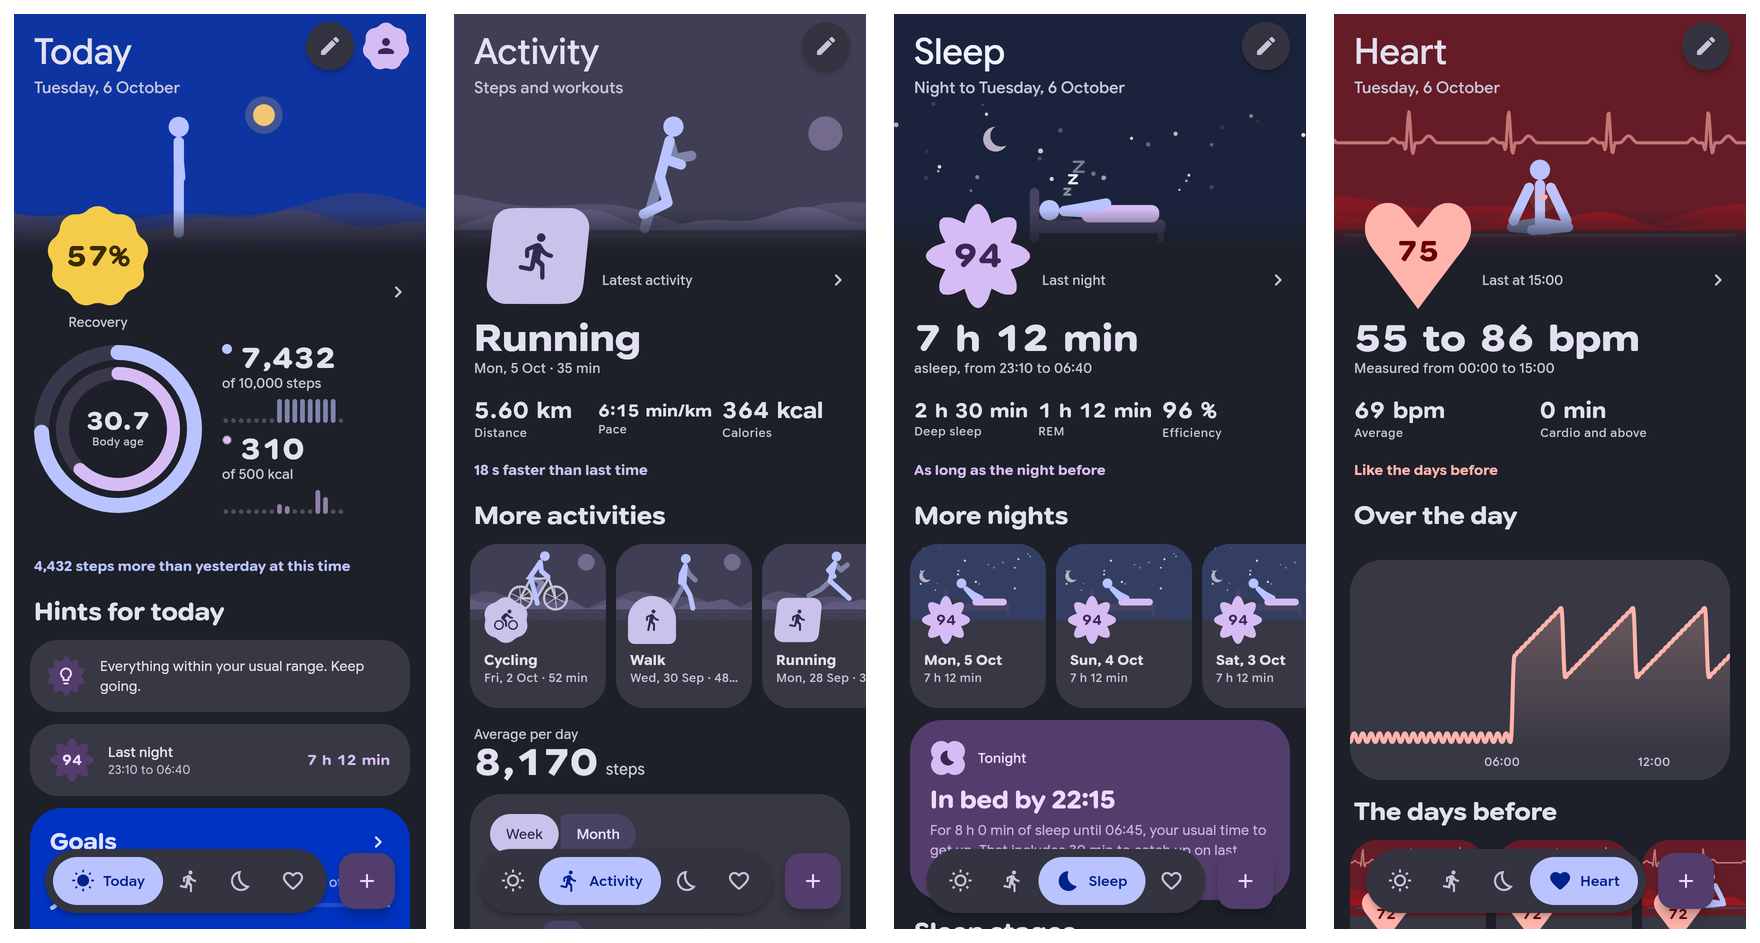
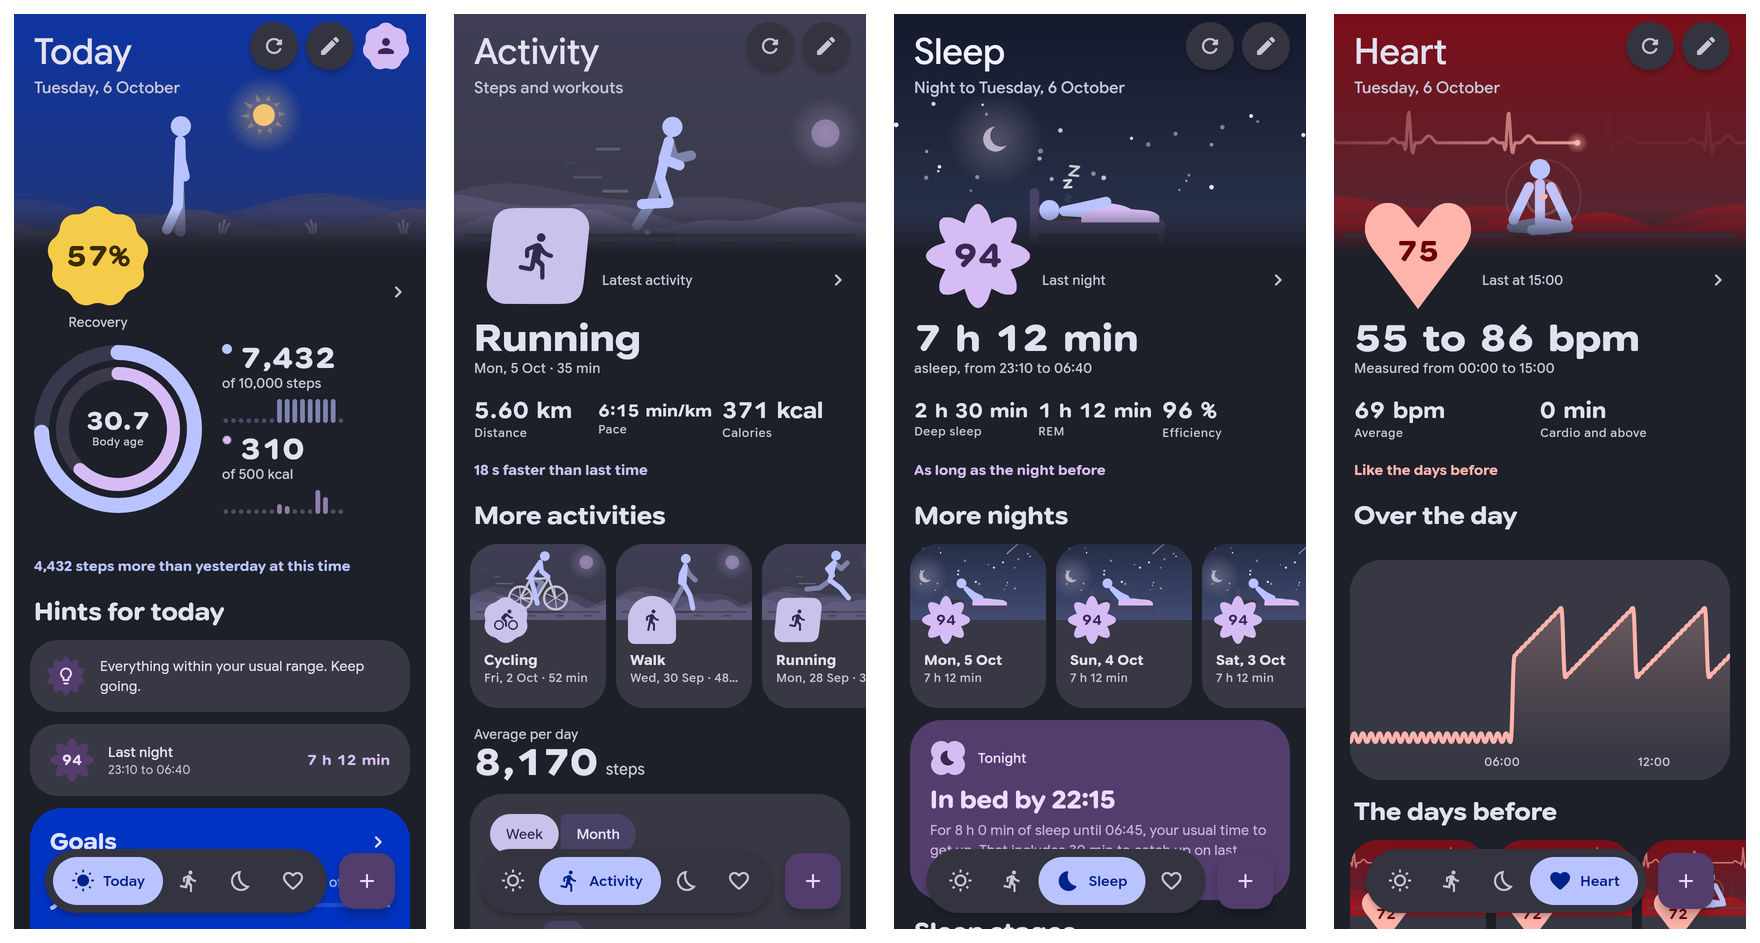
docs: show the new scenes and the reload button in the README

diff --git a/README.md b/README.md
@@ -29,7 +29,7 @@ The screenshots on this page show sample data.
 
 ## Features
 
-- **Four Pages, One Scene Each:** **Today**, **Activity**, **Sleep** and **Heart** each open with an animated scene drawn by the app and the page's main number on a shape. The scene comes in when the page opens, and a button at the top reloads the data.
+- **Four Pages, One Scene Each:** **Today**, **Activity**, **Sleep** and **Heart** each open with an animated scene drawn by the app and the page's main number on a shape. The scene comes in when the page opens: the land rises, the sun or the moon climbs to its place and the figure appears.
 - **Simple or Advanced:** The large cards show their few most important numbers, or all of them. A new installation starts simple.
 - **Good Morning:** A few cards when you get up: last night, your recovery, the weather and your goals.
 - **Weekly Report:** On Sunday evening, the week from Monday to Sunday against the weeks before, with a score of its own.
@@ -39,6 +39,7 @@ The screenshots on this page show sample data.
 - **Body Age:** Your real age plus or minus the years your last 30 days are worth.
 - **Ten Years of History:** Every metric by day, week, month, year and in total.
 - **Your Own Layout:** Remove, add, resize and reorder the tiles of every page.
+- **Reload by a Button:** The arrow beside the edit pencil reads everything again. Pulling the page down does nothing, so a scroll never reloads by mistake.
 - **Every Kind of Workout:** 56 kinds, from running to table tennis, each counted in the way that fits it.
 - **Routes:** The way a workout took, drawn by its speed, with the time of each kilometre and the climb.
 - **Entries:** Add **water**, **weight** and **meals**; they are written to Health Connect. A meal starts at the foods you logged before.
@@ -64,7 +65,7 @@ A new installation starts in simple mode. An installation that already has setti
 
 ### Today
 
-- **The Day as a Scene:** The sky follows the time of day, and the figure stands in it at the time it is.
+- **The Day as a Scene:** The sky follows the time of day, with the sun or the moon where the hour puts it. By day the figure walks, livelier in an hour with many steps, past three rows of hills and swaying grass; at night it stands and breathes.
 - **Recovery:** How rested the day began, from 0 to 100 %, in red, yellow or green. From nine in the evening the **day score** joins it.
 - **Two Rings:** **Steps** outside and **active calories** inside, each against its goal, around the **body age**. A ring that reaches its goal turns into a travelling wave.
 - **The Hours So Far:** Small bars from midnight to now beside each ring, and one sentence that sets your steps against yesterday at the same time.
@@ -90,7 +91,7 @@ For the rest of the morning the **Good morning** tile on Today opens the cards a
 
 ### Activity
 
-- **The Latest Workout as a Scene:** A figure walks, runs, hikes, rides, swims, lifts or breathes in front of a passing landscape.
+- **The Latest Workout as a Scene:** A figure walks, runs, hikes, rides, swims, lifts or breathes in front of a passing landscape. A runner and a rider leave the wind behind them, and a runner raises dust with every step.
 - **A Page per Workout:** Every number against the workout before and the average of the last ones, a chart of the last twelve of its kind, and marks for personal bests.
 - **The Route:** Where a workout has one, its line tinted from slow to fast, the time of each kilometre as bars with the fastest marked (a speed for rides, stretches of five or ten kilometres for long ways), and the altitude as a profile with the metres climbed and descended. Rows and the latest workout show the line small. Three switches in the profile take the kilometres, the climb and the small lines away.
 - **Allowing Routes:** Health Connect hands out the routes other apps recorded only with your consent. While it holds them back, a workout's page and the profile show a button that opens Health Connect's own dialog; choose **Allow all routes** there. The line is kept as at most 200 points in the app's own directory; no map is loaded.
@@ -105,7 +106,7 @@ For the rest of the morning the **Good morning** tile on Today opens the cards a
 
 ### Sleep
 
-- **The Night Played Back:** The latest night runs in twelve seconds. The sky follows the stages, and the figure snores in deep sleep, dreams in REM and sits up when you were awake.
+- **The Night Played Back:** The latest night runs in twelve seconds. The sky follows the stages, and the figure snores in deep sleep, dreams in REM and sits up when you were awake. The blanket rises with each breath, the moon has a light around it, and now and then a star falls.
 - **Tonight:** A bedtime counted back from your usual time of getting up, a little earlier while the week is in debt.
 - **A Page per Night:** The score in its four parts, the stages as blocks and against a guide range, bedtime and waking of the last 30 nights, and the sleep debt of seven.
 - **Observations:** How your nights after a workout, or after a day above the step goal, differ from the others, by the rule of [What Goes Together](#what-goes-together).
@@ -114,7 +115,7 @@ For the rest of the morning the **Good morning** tile on Today opens the cards a
 
 ### Heart
 
-- **A Heart That Beats at Your Rate:** The heart on the page swells at the last measured rate, and a monitor line passes behind the figure with one spike per beat.
+- **A Heart That Beats at Your Rate:** A bright dot draws a monitor line behind the figure, one spike in the time of one beat at the last measured rate, and the line fades behind it. With every spike the heart swells and a ring leaves it.
 - **Over the Day:** The day's heart rate as a curve from the first measurement to the last, true to time. Tap it and a bar stays at that measurement, with a pill that says the rate and the time; hold and drag, and the bar follows your finger. Each step is felt, fainter for a low rate and firmer for a high one.
 - **The Day in Detail:** Tap the top of the page for the day's own page: lowest, average and highest with their times, the zones, the parts of the day, each number against the days before, hints from your own numbers, and the day hour by hour. A bar at the bottom leads to the other days that have a curve.
 - **The Days Before and the Week:** Earlier days as cards to swipe and the week's averages as bars; each opens its day.
@@ -281,7 +282,7 @@ flutter test
 
 ## How It Works
 
-One file in the code base talks to the **`health`** plugin. Everything above it works on plain Dart values and is covered by **913** unit and widget tests that need no device.
+One file in the code base talks to the **`health`** plugin. Everything above it works on plain Dart values and is covered by **949** unit and widget tests that need no device.
 
 ```mermaid
 flowchart TD
